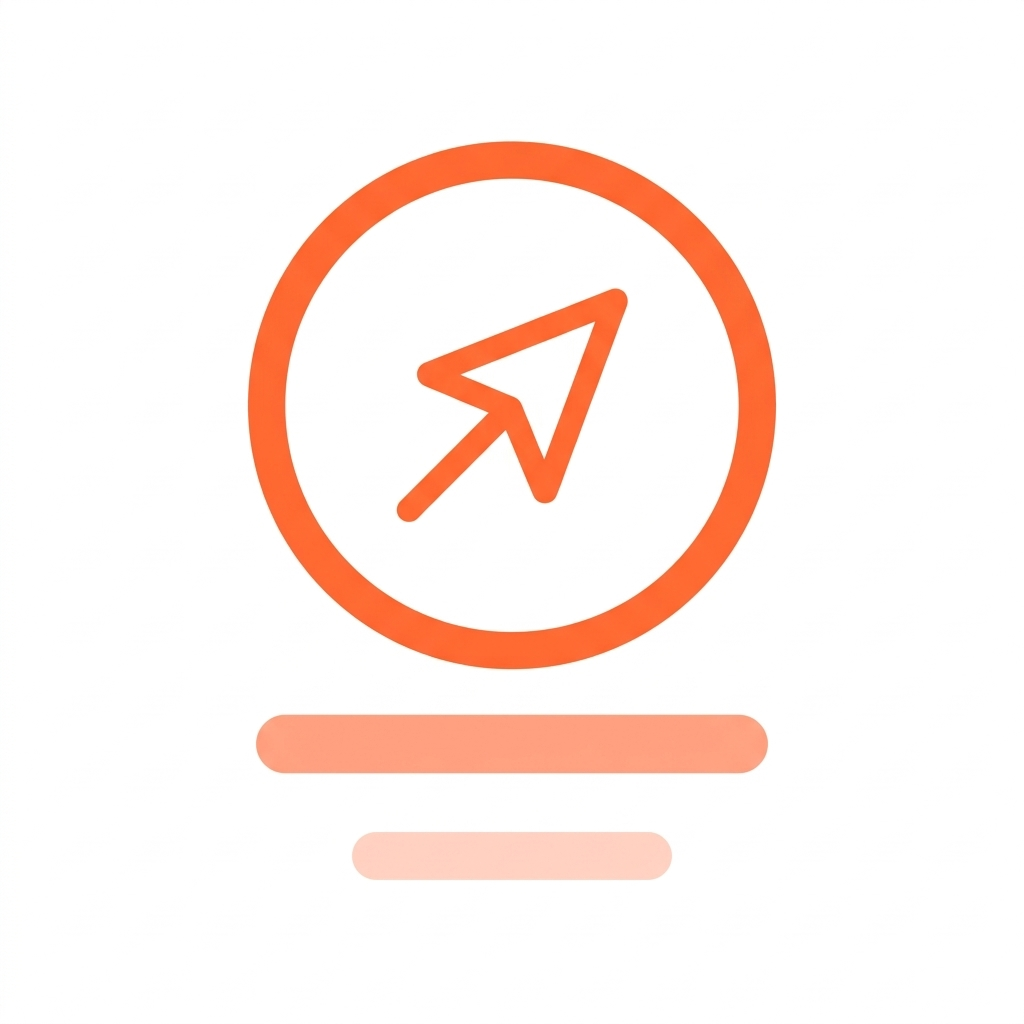
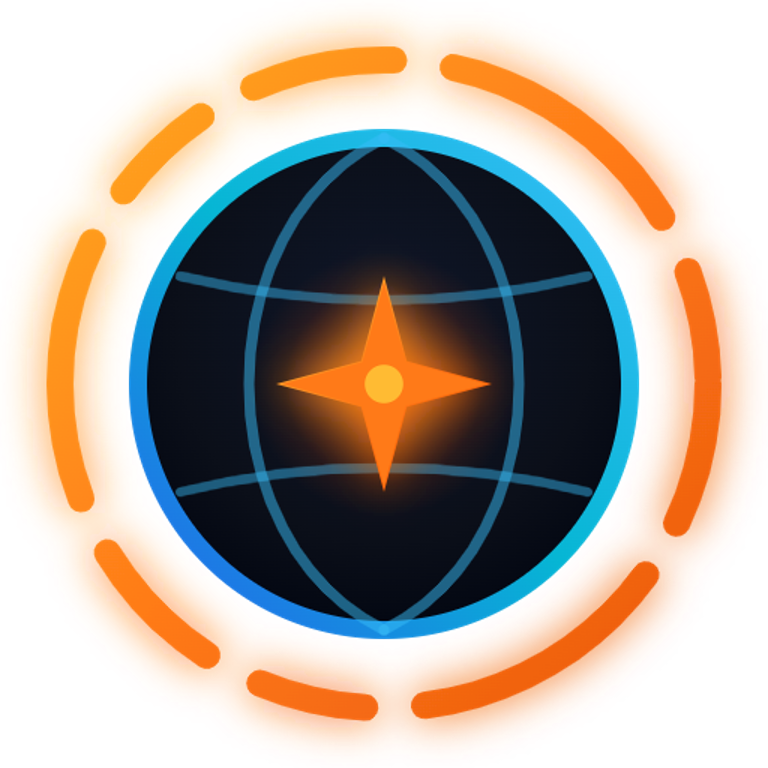
chore(release): v12.3.0 - Standalone Browser session healing, canonical URL navigation, and electric orange branding

diff --git a/frontend/src/version.js b/frontend/src/version.js
@@ -3,9 +3,9 @@
  * Tracks current version, build metadata, and itemized release updates/changelog.
  */
 
-export const APP_VERSION = '12.2.0'
+export const APP_VERSION = '12.3.0'
 export const BUILD_DATE = 'October 2026'
-export const APP_CODENAME = 'Yogatik 12.2.0 — Multi-Tab Browser Companion, Universal Search & Full-Index Link Architecture'
+export const APP_CODENAME = 'Yogatik 12.3.0 — Standalone Privacy Browser Session Healing, Canonical URL Resolution & Electric Orange Branding'
 
 const SEEN_VERSION_KEY = 'yogatik:seen_version'
 
@@ -23,10 +23,50 @@ export function markCurrentVersionAsSeen() {
 
 export const APP_RELEASES = [
   {
+    "version": "12.3.0",
+    "title": "Yogatik 12.3.0: Standalone Privacy Browser Session Healing, Canonical URL Resolution & Electric Orange Branding",
+    "date": "October 2, 2026",
+    "isLatest": true,
+    "highlights": [
+      "Standalone Browser Cold-Start Session Healing: Resolved blank/black window on startup by ensuring default session registration and automatic initial tab mounting",
+      "Canonical URL Resolution & Shorthand Navigation: Instant mapping for direct keywords (e.g. 'youtube' -> 'https://www.youtube.com') with privacy-first search query fallbacks",
+      "Electric Orange Browser Emblem & Cyber Globe: Refined official browser logo and status emblems with pure orange halo accents and a luminous 4-tip AI compass star",
+      "IPC Capability & Lifecycle Stability: Synchronous window-to-tab binding preventing silently dropped tab creation and URL loading events"
+    ],
+    "sections": [
+      {
+        "category": "🌐 Standalone Browser & Tab Navigation",
+        "items": [
+          {
+            "title": "Cold-Start Session Binding",
+            "description": "Guaranteed default session registration and automatic tab mounting on launch, eliminating blank screen lockouts."
+          },
+          {
+            "title": "Shorthand Domain Recognition",
+            "description": "Instant canonical URL mapping for popular services like YouTube, GitHub, Google, Wikipedia, and Reddit directly from the address bar."
+          }
+        ]
+      },
+      {
+        "category": "🎨 Brand Identity & Visual Ergonomics",
+        "items": [
+          {
+            "title": "Pure Electric Orange Design System",
+            "description": "Replaced magenta tones across browser halos with 100% pure energetic orange and centered a luminous 4-tip star on an unobstructed cyber globe."
+          },
+          {
+            "title": "Native Status Bar Branding",
+            "description": "Integrated live browser status emblems across standalone and companion browser shells."
+          }
+        ]
+      }
+    ]
+  },
+  {
     "version": "12.2.0",
     "title": "Yogatik 12.2.0: Multi-Tab Browser Companion, Universal Search & Full-Index Link Architecture",
     "date": "October 2, 2026",
-    "isLatest": true,
+    "isLatest": false,
     "highlights": [
       "Multi-Tab Browser Companion: Full local multi-tab state engine for web preview and standalone modes with seamless tab creation, switching, and custom home shortcuts",
       "Unified Search & Link Resolution: Command Palette website URL resolution, non-interfering HTTP/HTTPS link rendering, and expanded source citation tracking",

diff --git a/frontend/public/browser.html b/frontend/public/browser.html
@@ -31,7 +31,7 @@
     "description": "Ultra-fast desktop privacy browser with hardware AdShield, zero-latency YouTube ad skipper, distraction-free reader mode, Spotlight command palette, and local AI companion.",
     "url": "https://yogatik.web.app/browser",
     "downloadUrl": "https://yogatik.web.app/browser",
-    "softwareVersion": "12.2.0",
+    "softwareVersion": "12.3.0",
     "offers": {
       "@type": "Offer",
       "price": "0",
@@ -1162,14 +1162,14 @@
         <div class="hero-glow"></div>
         <span class="pill">
           <span class="pulse-dot"></span>
-          <span>Yogatik Browser v12.2.0 Standalone · Zero Surveillance</span>
+          <span>Yogatik Browser v12.3.0 Standalone · Zero Surveillance</span>
         </span>
         <h1>Browse the Web at Pure Speed.<br /><span class="grad">Zero Ads. Zero Telemetry. 100% Private.</span></h1>
         <p>An independent, ultra-lightweight desktop browser engineered with hardware-accelerated AdShield, zero-latency YouTube ad skipper, distraction-free reader mode, Spotlight command palette, and local Ollama AI intelligence. No account required.</p>
 
         <!-- Dynamic Release Meta -->
         <div class="release-meta" id="release-meta">
-          <span>Version <b>v12.2.0</b> (Core 12.2.0)</span>
+          <span>Version <b>v12.3.0</b> (Core 12.3.0)</span>
           <span class="dot"></span>
           <span>Released October 2, 2026</span>
           <span class="dot"></span>
@@ -1967,8 +1967,8 @@
         var meta = document.getElementById('release-meta');
         if (meta) {
           var exe = (rel.assets || []).find(function (as) { return as.name === 'YogatikBrowser-Setup.exe'; });
-          var tag = rel.tag_name || 'v12.2.0';
-          var bits = ['Version <b>' + tag + '</b> (Core 12.2.0)'];
+          var tag = rel.tag_name || 'v12.3.0';
+          var bits = ['Version <b>' + tag + '</b> (Core 12.3.0)'];
           if (rel.published_at) {
             var d = new Date(rel.published_at);
             if (!isNaN(d)) {

diff --git a/frontend/public/platforms.html b/frontend/public/platforms.html
@@ -462,11 +462,36 @@
     (function () {
       var RELEASES = [
   {
+    "version": "12.3.0",
+    "title": "Yogatik 12.3.0: Standalone Privacy Browser Session Healing, Canonical URL Resolution & Electric Orange Branding",
+    "date": "October 2, 2026",
+    "codename": "Standalone Privacy Browser Session Healing, Canonical URL Resolution & Electric Orange Branding",
+    "isLatest": true,
+    "highlights": [
+      [
+        "Standalone Browser Cold-Start Session Healing",
+        "Resolved startup blank/black screen by ensuring default session binding and automatic tab mounting on launch"
+      ],
+      [
+        "Canonical URL Resolution & Shorthand Navigation",
+        "Instant address bar mapping for direct service keywords (e.g. 'youtube' -> 'https://www.youtube.com') with privacy-first search query fallbacks"
+      ],
+      [
+        "Electric Orange Browser Emblem & Cyber Globe",
+        "Refined official browser logo and status emblems with pure vibrant orange halo accents and a luminous 4-tip AI compass star"
+      ],
+      [
+        "IPC Capability & Lifecycle Stability",
+        "Synchronous window-to-tab binding preventing silently dropped tab creation and URL loading events"
+      ]
+    ]
+  },
+  {
     "version": "12.2.0",
     "title": "Yogatik 12.2.0: Multi-Tab Browser Companion, Universal Search & Full-Index Link Architecture",
     "date": "October 2, 2026",
     "codename": "Multi-Tab Browser Companion, Universal Search & Full-Index Link Architecture",
-    "isLatest": true,
+    "isLatest": false,
     "highlights": [
       [
         "Universal Web & In-App Search Indexing",

diff --git a/yogatik-browser/electron/browserWindow.html b/yogatik-browser/electron/browserWindow.html
@@ -871,7 +871,23 @@
       border-left: 2px solid var(--accent);
       padding-left: 8px;
     }
-    #hint { margin-left: auto; color: var(--text-muted); font-size: 11px; padding-right: 4px; flex: 0 0 auto; }
+    #hint {
+      margin-left: auto;
+      color: var(--text-muted);
+      font-size: 11px;
+      padding-right: 6px;
+      flex: 0 0 auto;
+      display: inline-flex;
+      align-items: center;
+      gap: 6px;
+      user-select: none;
+    }
+    .browser-status-logo {
+      width: 14px;
+      height: 14px;
+      vertical-align: middle;
+      flex-shrink: 0;
+    }
 
     /* Find Group */
     #find-group { display: none; align-items: center; gap: 6px; flex: 1 1 auto; min-width: 0; }
@@ -1230,7 +1246,14 @@
 
   <!-- ── Tab Strip ────────────────────────────────────────────────────────── -->
   <div id="bar">
-    <span id="hint">Yogatik Browser</span>
+    <span id="hint">
+      <svg class="browser-status-logo" viewBox="0 0 24 24" fill="none">
+        <circle cx="12" cy="12" r="10" stroke="#ff7a18" stroke-width="2"/>
+        <ellipse cx="12" cy="12" rx="6" ry="10" stroke="#06b6d4" stroke-width="1.4"/>
+        <circle cx="12" cy="12" r="2.5" fill="#ffffff"/>
+      </svg>
+      <span>Yogatik Browser</span>
+    </span>
   </div>
 
   <!-- ── Toast notifications ─────────────────────────────────────────────── -->

diff --git a/frontend/electron/browserWindow.html b/frontend/electron/browserWindow.html
@@ -137,7 +137,8 @@
   .tab-audio-btn.muted { color: #ef4444; }
   .tab-new-btn { background: none; border: 0; color: #8b93a3; cursor: pointer; font-size: 16px; padding: 3px 8px; border-radius: 6px; display: inline-flex; align-items: center; justify-content: center; flex: 0 0 auto; line-height: 1; transition: all 0.15s; }
   .tab-new-btn:hover { color: #fff; background: #1a1f29; }
-  #hint { margin-left: auto; color: #6b7280; font-size: 11px; padding-right: 4px; flex: 0 0 auto; }
+  #hint { margin-left: auto; color: #6b7280; font-size: 11px; padding-right: 4px; flex: 0 0 auto; display: inline-flex; align-items: center; gap: 6px; user-select: none; }
+  .browser-status-logo { width: 14px; height: 14px; vertical-align: middle; flex-shrink: 0; }
 
   /* Fullscreen Mode: when HTML5 full-screen activates (e.g. YouTube video),
      hide the chrome and side panels completely so the WebContentsView covers the entire window */
@@ -233,7 +234,14 @@
 </div>
 <div id="bar">
   <button class="tab-new-btn" id="bar-new-tab-btn" title="New tab (Ctrl+T)">+</button>
-  <span id="hint">Yogatik is browsing</span>
+  <span id="hint">
+    <svg class="browser-status-logo" viewBox="0 0 24 24" fill="none">
+      <circle cx="12" cy="12" r="10" stroke="#ff7a18" stroke-width="2"/>
+      <ellipse cx="12" cy="12" rx="6" ry="10" stroke="#06b6d4" stroke-width="1.4"/>
+      <circle cx="12" cy="12" r="2.5" fill="#ffffff"/>
+    </svg>
+    <span>Yogatik is browsing</span>
+  </span>
 </div>
 
 <!-- AI Companion Dock -->

diff --git a/frontend/src/agent.js b/frontend/src/agent.js
@@ -1646,7 +1646,7 @@ function safelyParseToolArgs(raw) {
           }).catch(() => {})
         }
 
-        if (SOURCE_TOOLS.has(tc.name) || result?.sources || result?.results || (result?.url && typeof result.url === 'string')) {
+        if (SOURCE_TOOLS.has(tc.name)) {
           for (const s of collectSources(result)) {
             if (!sources.some(existing => existing.url === s.url)) sources.push(s)
           }
